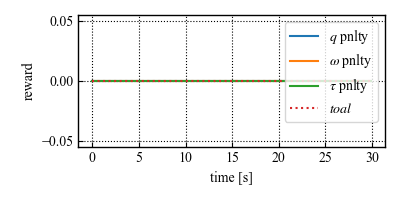
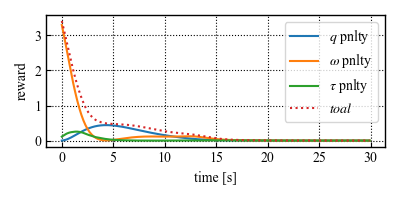
FIX: state upgrade

diff --git a/dqn_hist/train.py b/dqn_hist/train.py
@@ -70,12 +70,12 @@ def evaluate():
 
     curr_dir = os.path.abspath(os.getcwd())
 
-    agent = torch.load(curr_dir + "/models/spacecraft_control_ddqn_hist.pkl")#,map_location='cpu')
-    # agent.device = torch.device('cpu')
+    agent = torch.load(curr_dir + "/models/spacecraft_control_ddqn_hist.pkl",map_location='cpu')
+    agent.device = torch.device('cpu')
     agent.train = False
 
     obs = env.reset()
-    print("The goal angle is :" + str(np.rad2deg(env.goalEuler)) +"\n")
+    print("Target multi is:" + str(env.multi) +"\n")
     total_r = 0
     qe = np.empty((0,4))
     q = np.empty((0,4))
@@ -117,7 +117,7 @@ def evaluate():
                     elif n[i] == '2':
                         sign[i] = -1
                 para = [k,D[0,0],D[4,4],D[8,8]]
-                para_exp = [np.log10(para[i]) if i==0 else np.log10(para[i]-1e-4) for i in range(len(para))]
+                para_exp = [np.log10(para[i]) if i==0 else np.log10(para[i]-1e-5) for i in range(len(para))]
                 para_exp_f = [np.floor(para_exp[i]) for i in range(len(para))]
                 delta_tmp = [0]*len(para)
                 delta_tmp[0] = para_exp_f[0]-1 if para_exp[0].is_integer() else para_exp_f[0]
@@ -270,6 +270,7 @@ def evaluate():
     # plt.ylim(-20, 20)
     plt.grid(True, color='k', linestyle='dotted', linewidth=0.8)
     # plt.savefig(curr_dir + "/results/dqn_hist_eval/plot_k.png")
+    print('Last k:' + str(k_hist[-1,0]))
 
     # plt.figure(figsize=(yoko,tate),dpi=100)
     plt.subplot(235)
@@ -282,9 +283,12 @@ def evaluate():
     plt.legend(loc="lower center", bbox_to_anchor=(0.5,1.05), ncol=3)
     plt.tight_layout()
     # plt.ylim(0, 1e-6)
-    plt.xlim(0, 15)
+    # plt.xlim(0, 15)
     plt.grid(True, color='k', linestyle='dotted', linewidth=0.8)
     # plt.savefig(curr_dir + "/results/dqn_hist_eval/plot_d.png")
+    print('Last D1:' + str(D_hist[-1,0]))
+    print('Last D2:' + str(D_hist[-1,1]))
+    print('Last D3:' + str(D_hist[-1,2]))
 
     # plt.figure(figsize=(yoko,tate),dpi=100)
     plt.subplot(236)
@@ -297,6 +301,7 @@ def evaluate():
     plt.grid(True, color='k', linestyle='dotted', linewidth=0.8)
     # plt.savefig(curr_dir + "/results/dqn_hist_eval/plot_action.png")
     plt.savefig(curr_dir + "/results/dqn_hist_eval/results.png")
+    print('Last action:' + str(actions[-1,0]))
 
     plt.figure(figsize=(yoko,tate),dpi=100)
     plt.plot(np.arange(max_steps)*dt, r_hist[:,0],label = r"$q$ pnlty")
@@ -461,6 +466,7 @@ def env_adaptive():
     curr_dir = os.path.abspath(os.getcwd())
     env.reset()
     print('Initial omega is:' + str(np.rad2deg(env.startOmega)))
+    print("Target multi is:" + str(env.multi) +"\n")
     total_r = 0
     qe = np.empty((0,4))
     q = np.empty((0,4))

diff --git a/dqn_hist/environment.py b/dqn_hist/environment.py
@@ -305,7 +305,7 @@ class SatelliteContinuousEnv(gym.Env):
             self.steps_beyond_done += 1
             reward = 0.0
         # reward = reward/(0.01*(175+25*self.multi))
-        reward = reward/(0.1*(13+28*self.multi))
+        # reward = reward/(0.1*(13+28*self.multi))
         return self.state, reward, done, self.pre_state, {}
 
     def reset(self):
@@ -325,7 +325,7 @@ class SatelliteContinuousEnv(gym.Env):
         self.startQuate = self.dcm2quaternion(self.euler2dcm(self.startEuler))
         # self.startOmega = np.array([0,0,0])
         coef = 2*np.random.randint(0,2,size=3)-1
-        self.startOmega = coef* np.deg2rad(np.array([5,-5,5]) + np.random.uniform(-1, 1, size=3))
+        self.startOmega = coef* np.deg2rad(np.array([5,-5,5]))#+ np.random.uniform(-1, 1, size=3))
 
         # 目標値(deg)
         self.goalEuler = np.deg2rad(np.array([0,0,0]))
